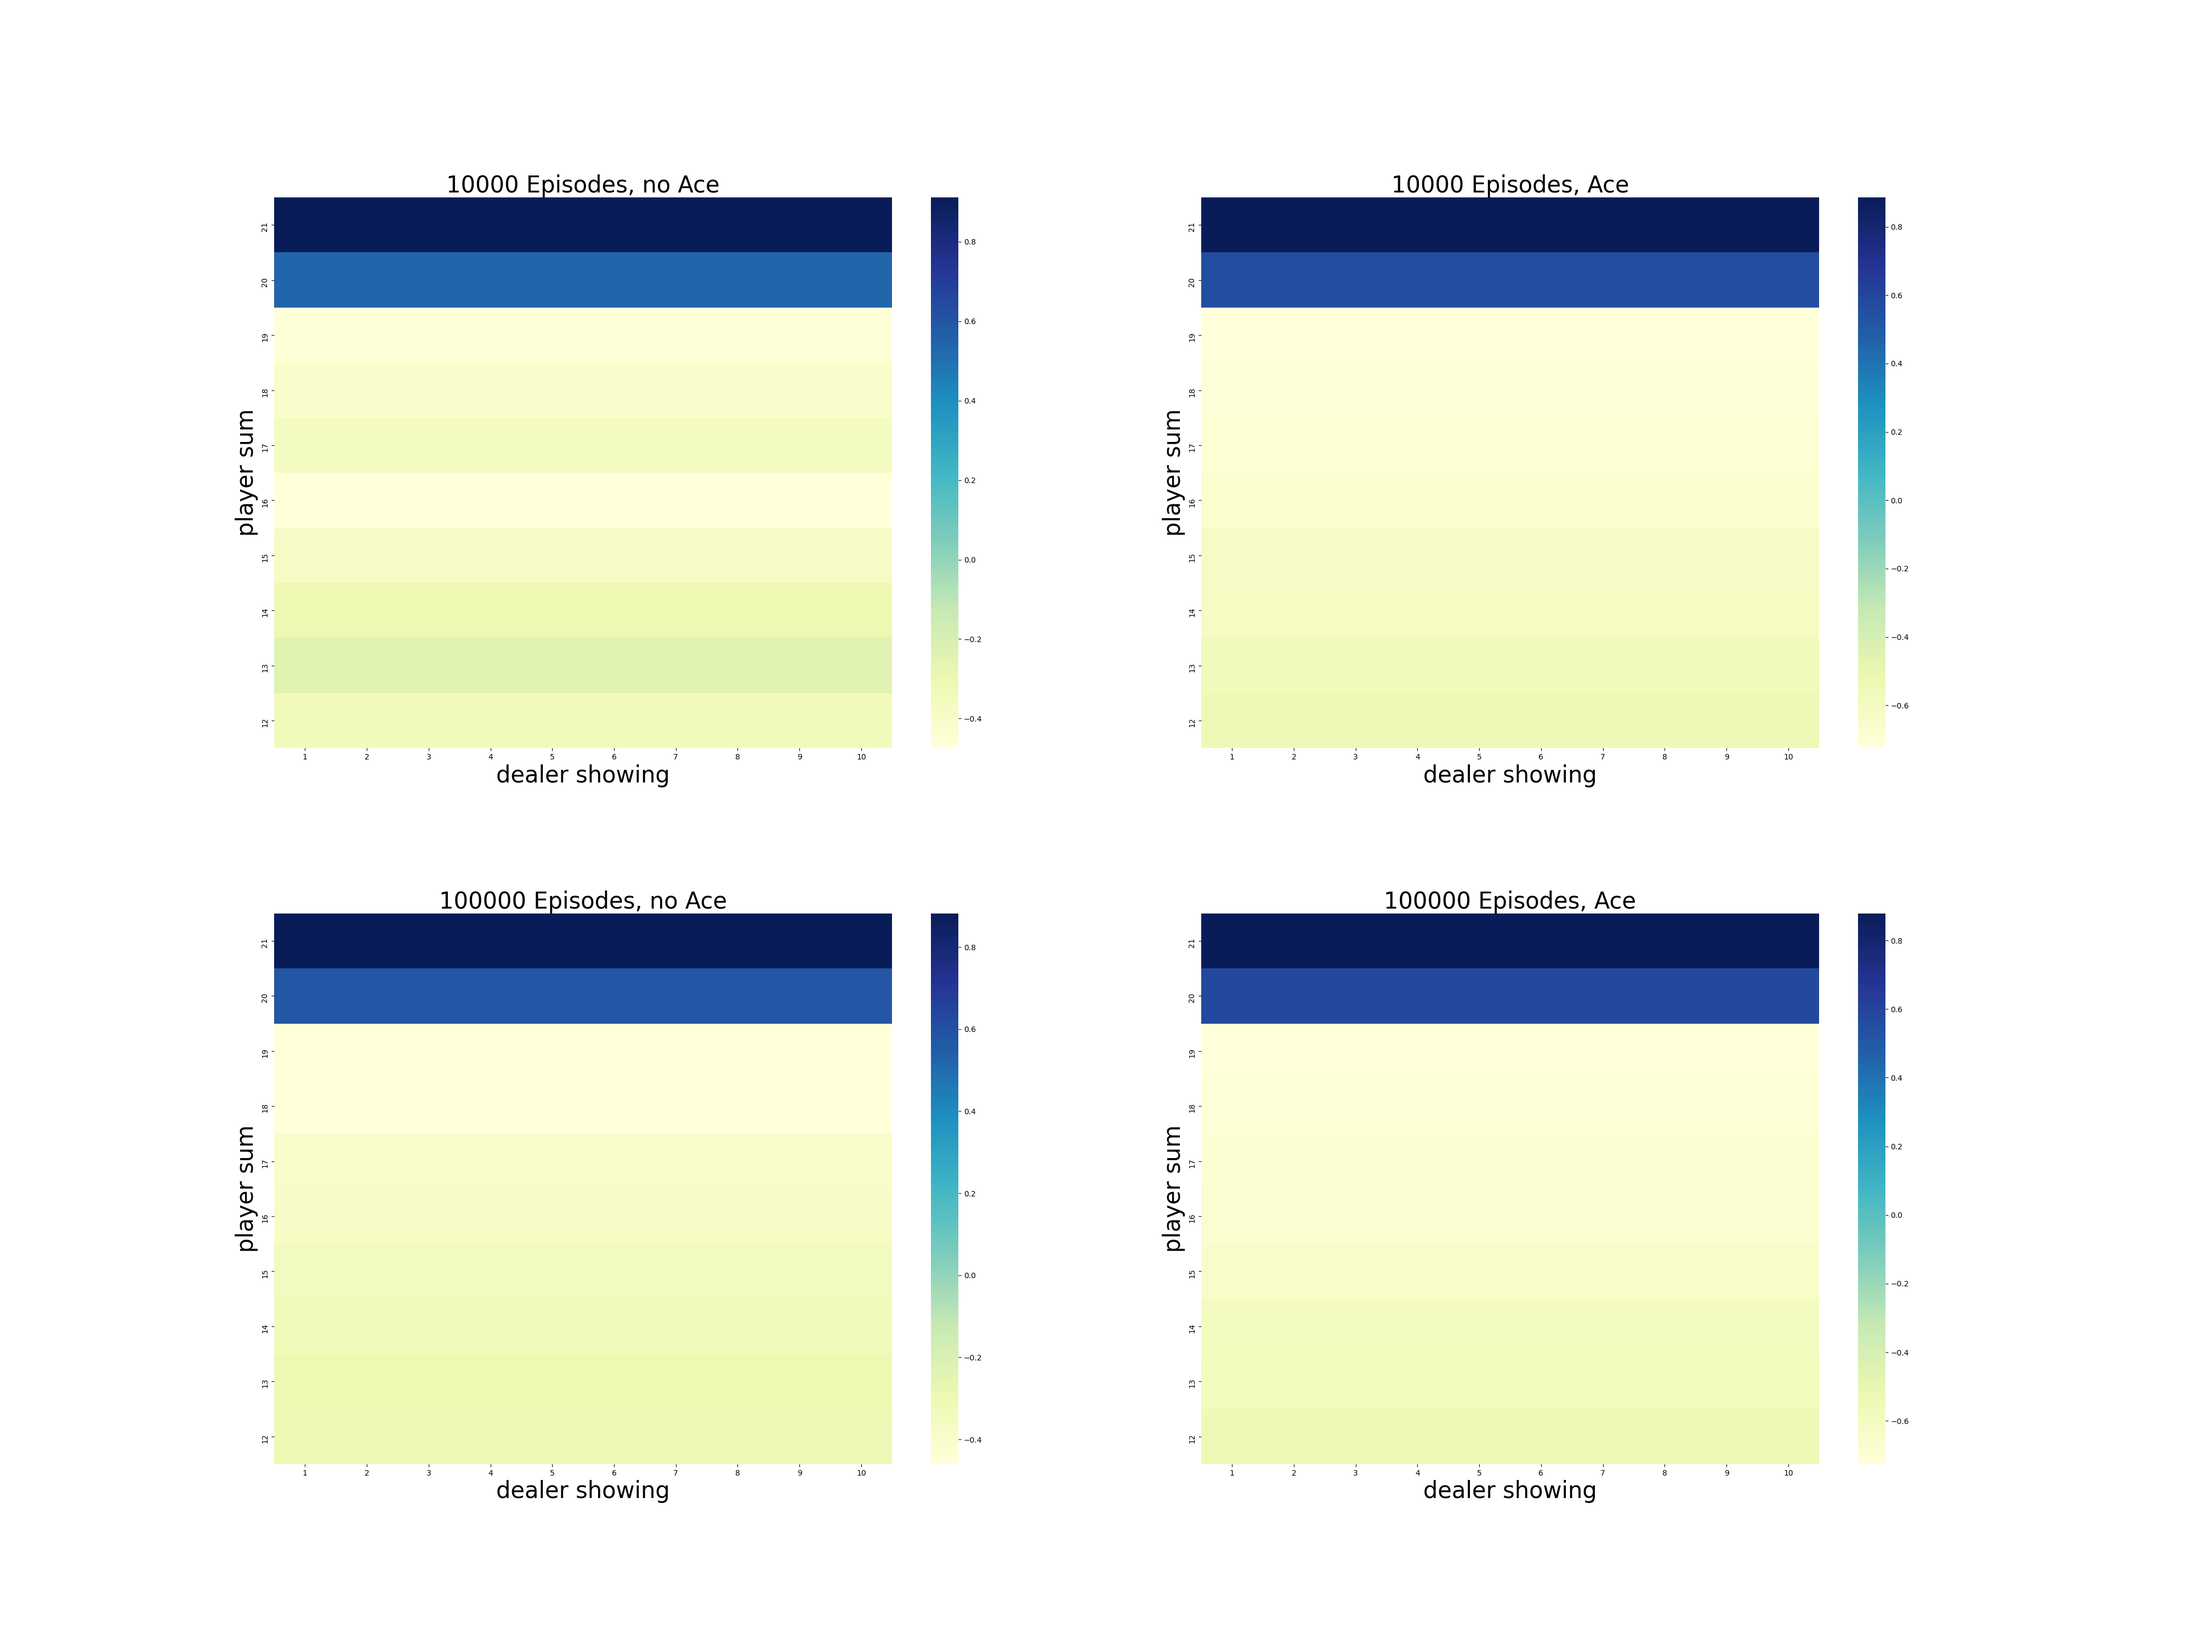
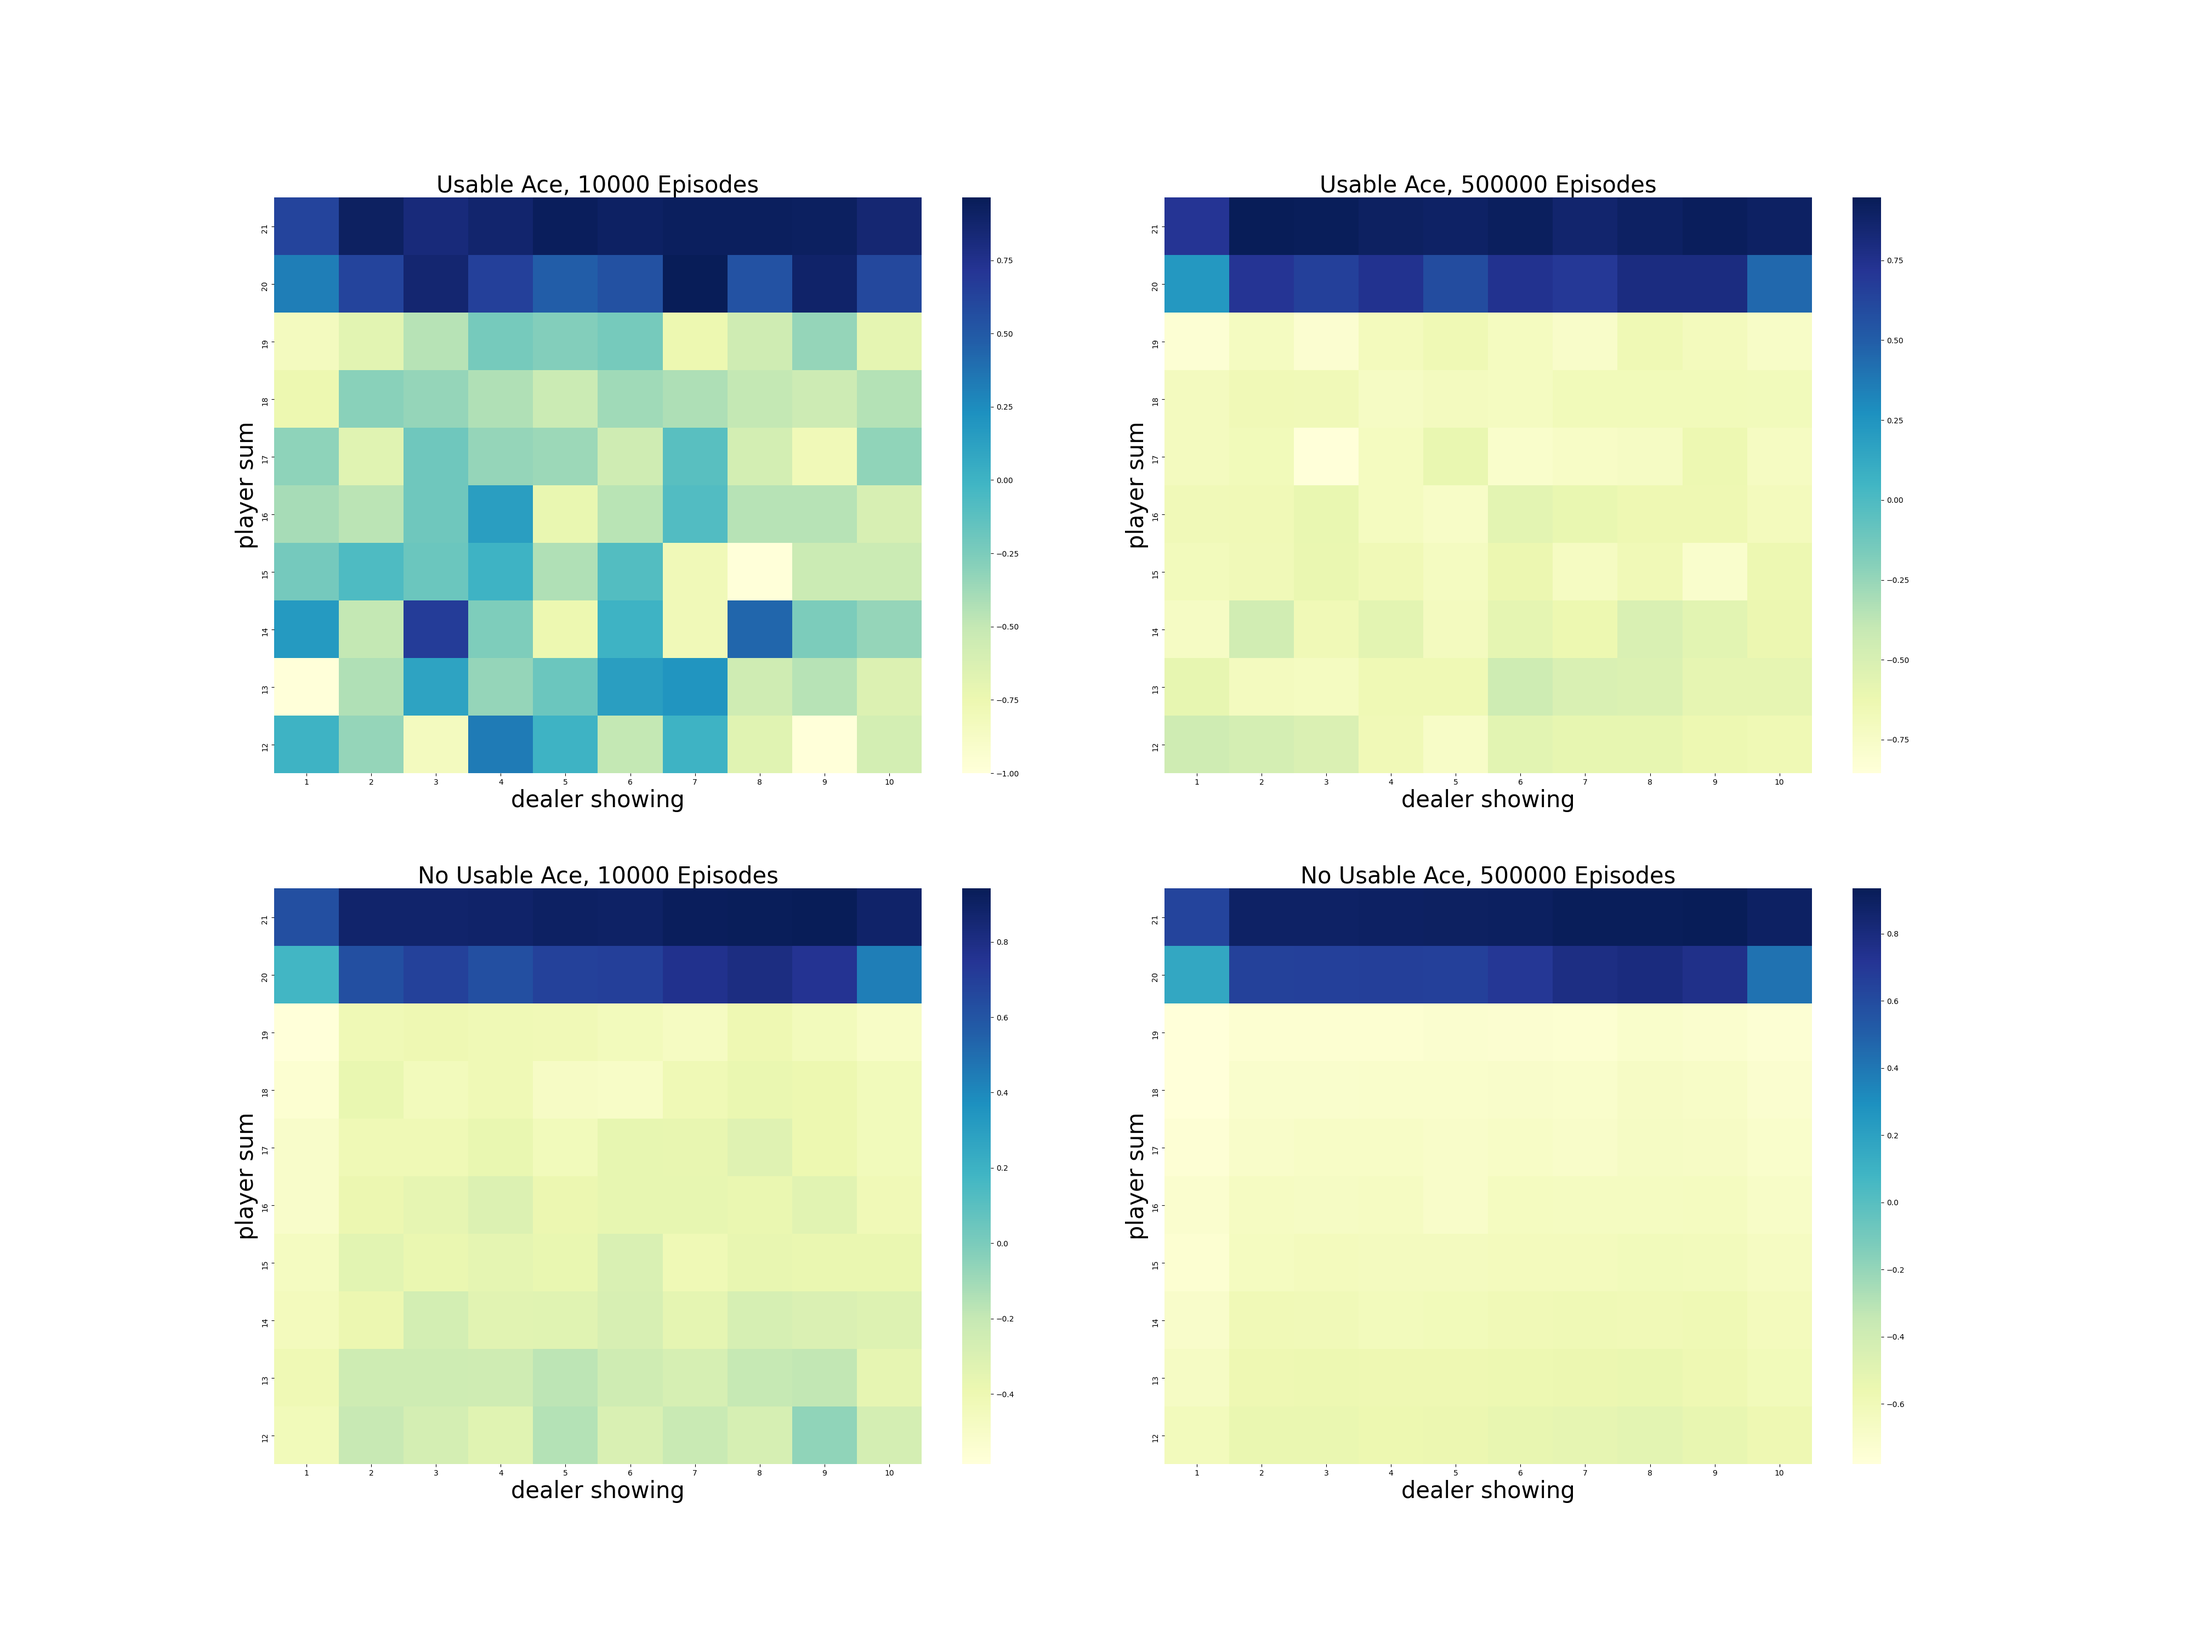
completed exercise 5.1

diff --git a/CH05/blackjack.py b/CH05/blackjack.py
@@ -108,7 +108,7 @@ class Agent:
             if player_sum < 12:
                 self.hit()
             else:
-                states.append([player_sum - 12, self.dealer.show_card - 1, self.ace_use])
+                states.append([player_sum - 12, self.dealer_show_card - 1, self.ace_use])
                 if player_sum < 20:
                     self.hit()
                     actions.append(0)
@@ -131,15 +131,13 @@ class Agent:
             returns = 0
             for t in range(len(states) - 1, -1, -1):
                 returns = self.discount * returns + rewards[t]
-                state = states[t]
-                if state[2] == 0:
-                    state = state[0:1]
-                    self.state_count_no_ace[state] += 1
-                    self.state_values_no_ace[state] += returns
+                player_point, dealer_show, ace = states[t]
+                if ace == 0:
+                    self.state_count_no_ace[player_point, dealer_show] += 1
+                    self.state_values_no_ace[player_point, dealer_show] += returns
                 else:
-                    state = state[0:1]
-                    self.state_count_ace[state] += 1
-                    self.state_values_ace[state] += returns
+                    self.state_count_ace[player_point, dealer_show] += 1
+                    self.state_values_ace[player_point, dealer_show] += returns
 
             if i + 1 in record_points:
                 state_value_record_ace.append(self.state_values_ace/self.state_count_ace)
@@ -147,19 +145,19 @@ class Agent:
         return state_value_record_ace, state_value_record_no_ace
 
     def figure_5_1(self):
-        state_value_record_ace, state_value_record_no_ace = self.first_visit_mc_prediction(100000, [10000, 100000])
+        state_value_record_ace, state_value_record_no_ace = self.first_visit_mc_prediction(500000, [10000, 500000])
         states = [state_value_record_ace[0],
                   state_value_record_no_ace[0],
                   state_value_record_ace[1],
                   state_value_record_no_ace[1]]
 
-        titles = ['10000 Episodes, no Ace',
-                  '10000 Episodes, Ace',
-                  '100000 Episodes, no Ace',
-                  '100000 Episodes, Ace']
+        titles = ['Usable Ace, 10000 Episodes',
+                  'Usable Ace, 500000 Episodes',
+                  'No Usable Ace, 10000 Episodes',
+                  'No Usable Ace, 500000 Episodes']
 
         _, axes = plt.subplots(2, 2, figsize=(40, 30))
-        plt.subplots_adjust(wspace=0.2, hspace=0.3)
+        plt.subplots_adjust(wspace=0.1, hspace=0.2)
         axes = axes.flatten()
 
         for state, title, axis in zip(states, titles, axes):
@@ -171,7 +169,6 @@ class Agent:
 
         plt.savefig('images/figure_5_1.png')
         plt.close()
-        print(states)
 
 
 if __name__ == "__main__":
